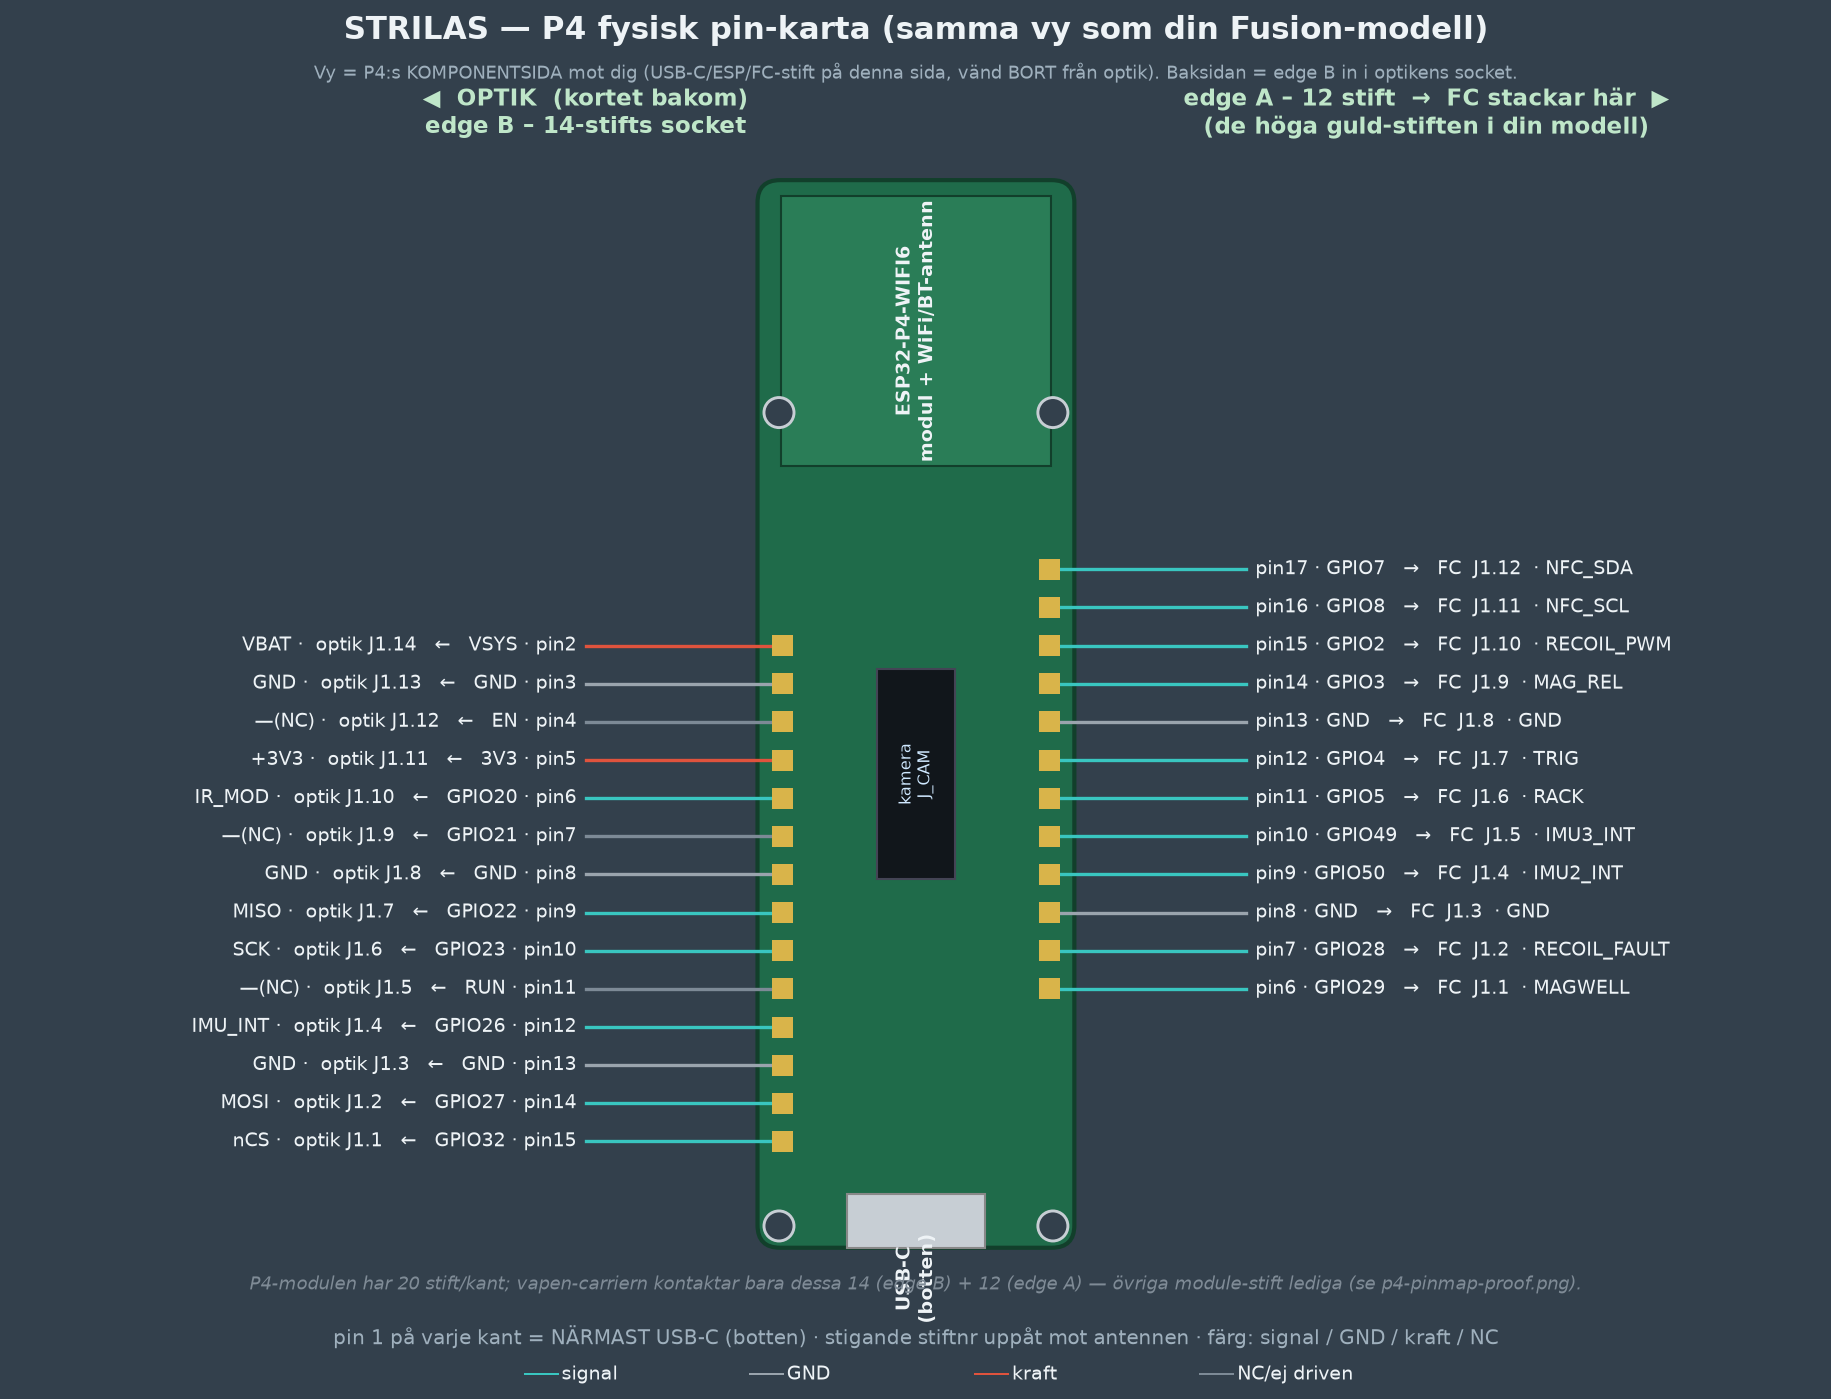
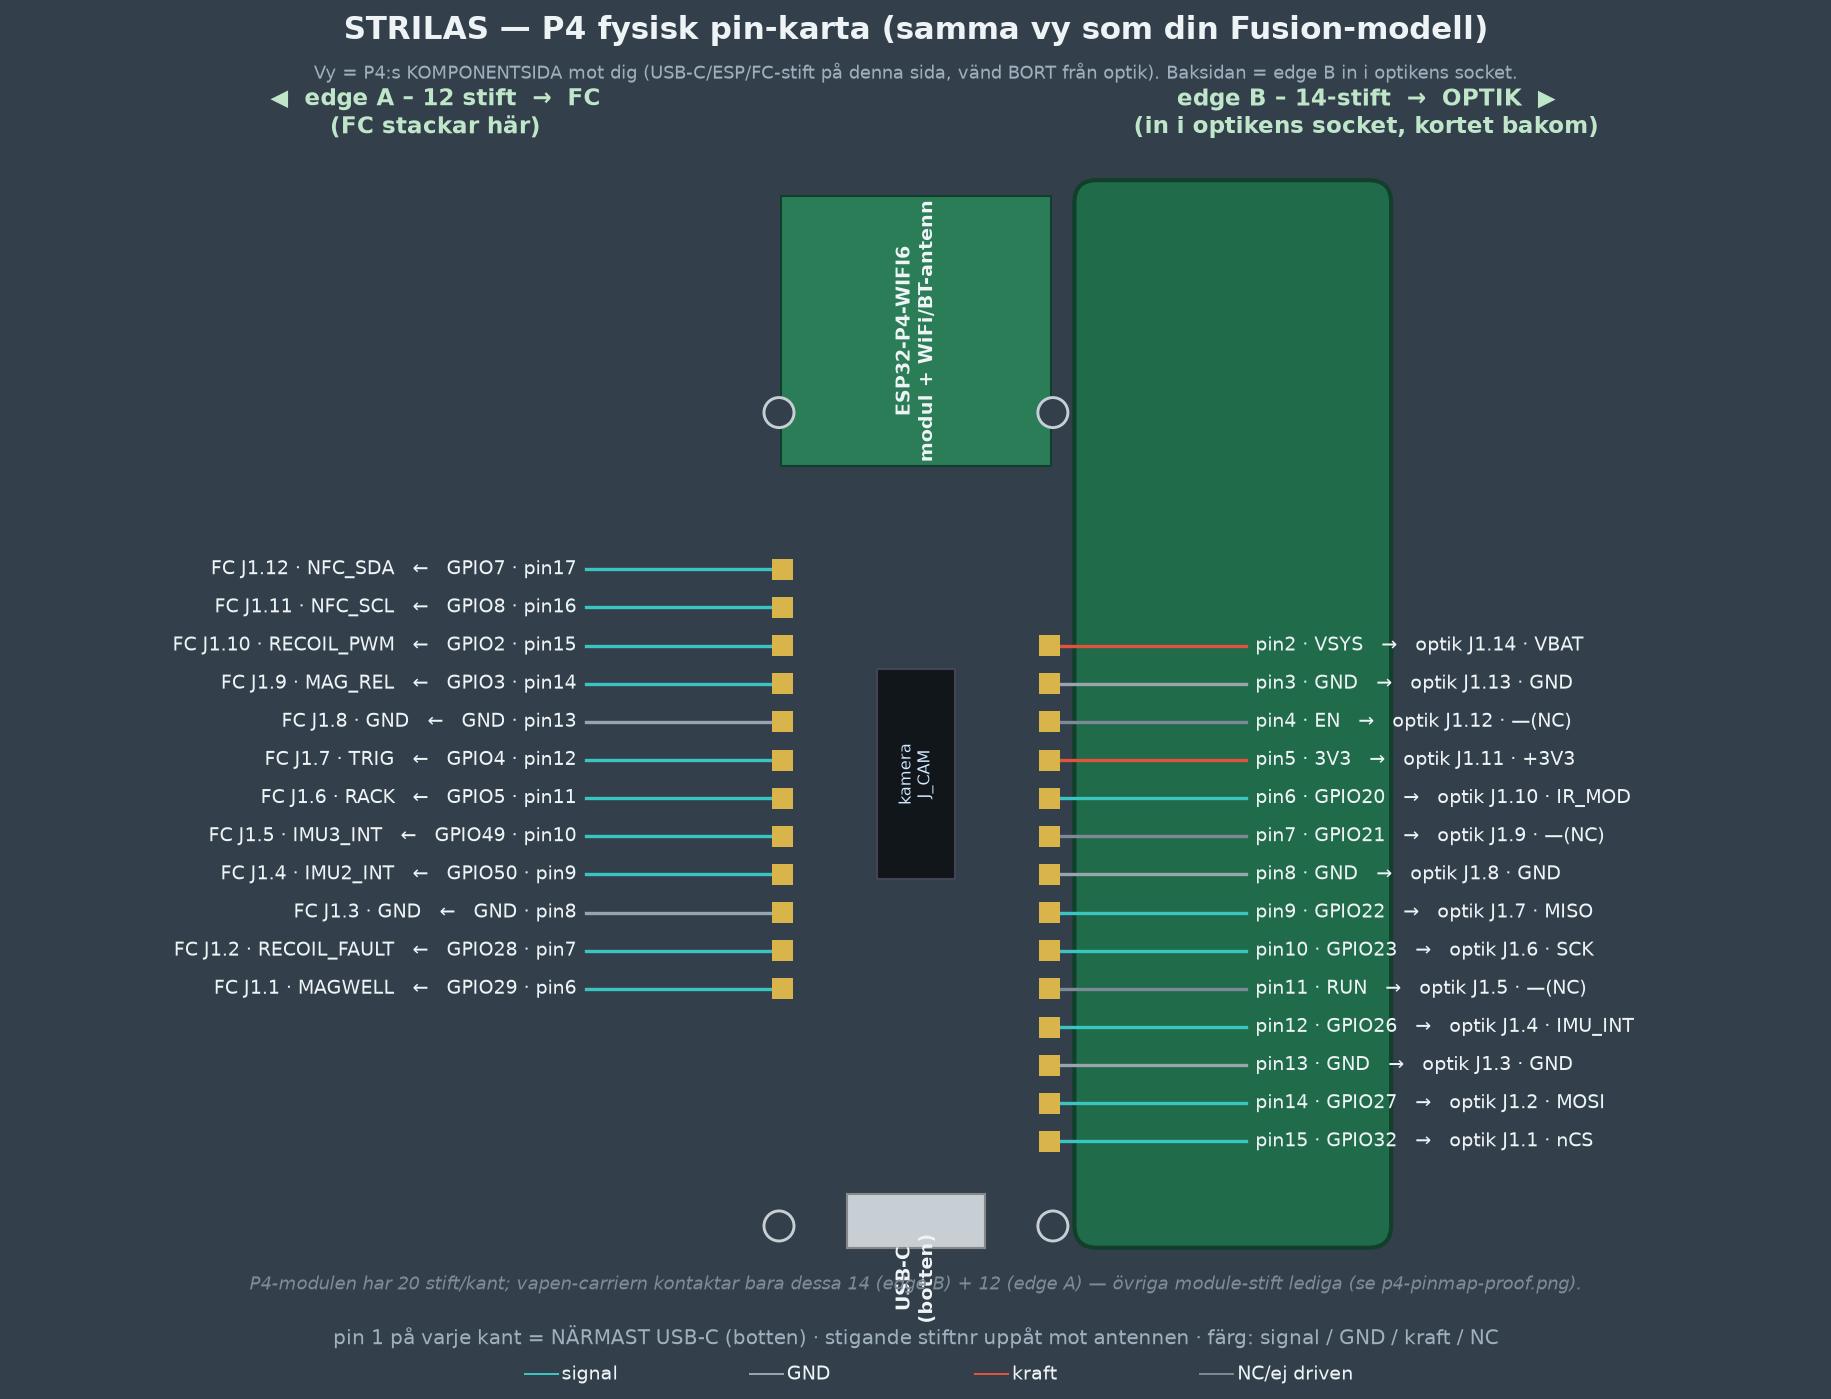
fix: fysisk pin-karta var spegelvänd — rätta till framsidesvy
Bekräftat mot användarens 3D-modell: 14-stiftslisten (edge B → optik) ligger
till HÖGER, 12-stift (edge A → FC) till VÄNSTER, med USB-C ner / ESP upp /
komponentsidan mot betraktaren.

Buggen: board→skärm-transformen var S(x,y)=(y,x) — en SPEGLING (det=-1), vilket
visade baksidan/spegelvänt. Bytt till S(x,y)=(-y,x) = ren rotation 90° moturs
(det=+1) = riktig framsidesvy. Etikett-sidor + kant-rubriker omkastade därefter.

Endast RITNINGEN var fel — monteringen/kopplingen är korrekt (paddarna
sammanfaller fortf. 0.000 mm, edge B 14 ↔ optik J1, edge A 12 ↔ FC J1).

https://claude.ai/code/session_01EQ2JhMHoLWtYkqqRi7brXM

diff --git a/hardware/pinmap_oriented.py b/hardware/pinmap_oriented.py
@@ -42,11 +42,11 @@ def kind(net, gpio):
     if net in ("—(NC)", "", None): return "nc"
     return "sig"
 
-# ---------- rita (board→skärm: screen=(by, bx) → lång axel lodrät, USB-C ner) ----------
+# ---------- rita (board→skärm: REN ROTATION 90° moturs = riktig framsidesvy, USB-C ner) ----------
 BG="#33404c"; GREEN="#1f6b4a"; GE="#123f2b"; TXT="#eef3f6"; PIN="#d9b44a"
 DARK="#20262d"; SILV="#c7ced4"; GP="#cfe8ff"
 COL={"gnd":"#9aa4ad","pwr":"#e0533d","nc":"#7d8a96","sig":"#39c6c0"}
-S = lambda bx, by: (by, bx)                      # board(x,y) -> screen(x,y)
+S = lambda bx, by: (-by, bx)                     # rotation (det=+1), EJ spegling → framsida
 fig, ax = plt.subplots(figsize=(15.5, 13)); fig.patch.set_facecolor(BG); ax.set_facecolor(BG)
 ax.set_aspect("equal"); ax.set_xlim(-60, 60); ax.set_ylim(-44, 46); ax.axis("off")
 
@@ -69,20 +69,19 @@ for (mx,my),lbl in [((-34.10,9.12),"MP1"),((-34.10,-9.12),"MP2"),((20.07,9.12),"
 def stub(bx, by, color):
     sx, sy = S(bx, by); ax.add_patch(Rectangle((sx-0.7, sy-0.7), 1.4, 1.4, fc=color, ec="none", zorder=4))
 
-# edge A (höger, y=+8.89) → FC ;  edge B (vänster, y=-8.89) → optik
-LX = 11.5    # board-y för kortkanten där stiften sitter (±8.89) → text utanför
-for k, bx, gpio, net, wp in edgeA:
+# framsidesvy: edge A (y=+8.89) hamnar till VÄNSTER → FC ;  edge B (y=-8.89) till HÖGER → optik
+for k, bx, gpio, net, wp in edgeA:                            # VÄNSTER (FC, 12 stift)
     c = COL[kind(net, gpio)]; sx, sy = S(bx, 8.89)
-    stub(bx, 8.89, PIN); ax.plot([sx, 22], [sy, sy], color=c, lw=1.6, zorder=2)
-    ax.text(22.6, sy, f"pin{wp} · {gpio}   →   FC  J1.{k}  · {net}", color=TXT, ha="left", va="center", fontsize=9)
-for k, bx, gpio, net, wp in edgeB:
+    stub(bx, 8.89, PIN); ax.plot([sx, -22], [sy, sy], color=c, lw=1.6, zorder=2)
+    ax.text(-22.6, sy, f"FC J1.{k} · {net}   ←   {gpio} · pin{wp}", color=TXT, ha="right", va="center", fontsize=9)
+for k, bx, gpio, net, wp in edgeB:                            # HÖGER (optik, 14 stift)
     c = COL[kind(net, gpio)]; sx, sy = S(bx, -8.89)
-    stub(bx, -8.89, PIN); ax.plot([sx, -22], [sy, sy], color=c, lw=1.6, zorder=2)
-    ax.text(-22.6, sy, f"{net} ·  optik J1.{k}   ←   {gpio} · pin{wp}", color=TXT, ha="right", va="center", fontsize=9)
+    stub(bx, -8.89, PIN); ax.plot([sx, 22], [sy, sy], color=c, lw=1.6, zorder=2)
+    ax.text(22.6, sy, f"pin{wp} · {gpio}   →   optik J1.{k} · {net}", color=TXT, ha="left", va="center", fontsize=9)
 
 # kant-rubriker
-ax.text(-22, 40, "◀  OPTIK  (kortet bakom)\nedge B – 14-stifts socket", color="#bfe6c9", ha="center", va="center", fontsize=11, fontweight="bold")
-ax.text(34, 40, "edge A – 12 stift  →  FC stackar här  ▶\n(de höga guld-stiften i din modell)", color="#bfe6c9", ha="center", va="center", fontsize=11, fontweight="bold")
+ax.text(-32, 40, "◀  edge A – 12 stift  →  FC\n(FC stackar här)", color="#bfe6c9", ha="center", va="center", fontsize=11, fontweight="bold")
+ax.text(30, 40, "edge B – 14-stift  →  OPTIK  ▶\n(in i optikens socket, kortet bakom)", color="#bfe6c9", ha="center", va="center", fontsize=11, fontweight="bold")
 ax.text(0, 45.5, "STRILAS — P4 fysisk pin-karta (samma vy som din Fusion-modell)", color=TXT, ha="center", va="center", fontsize=15, fontweight="bold")
 ax.text(0, 42.7, "Vy = P4:s KOMPONENTSIDA mot dig (USB-C/ESP/FC-stift på denna sida, vänd BORT från optik). Baksidan = edge B in i optikens socket.",
         color="#9fb0bd", ha="center", va="center", fontsize=8.5)